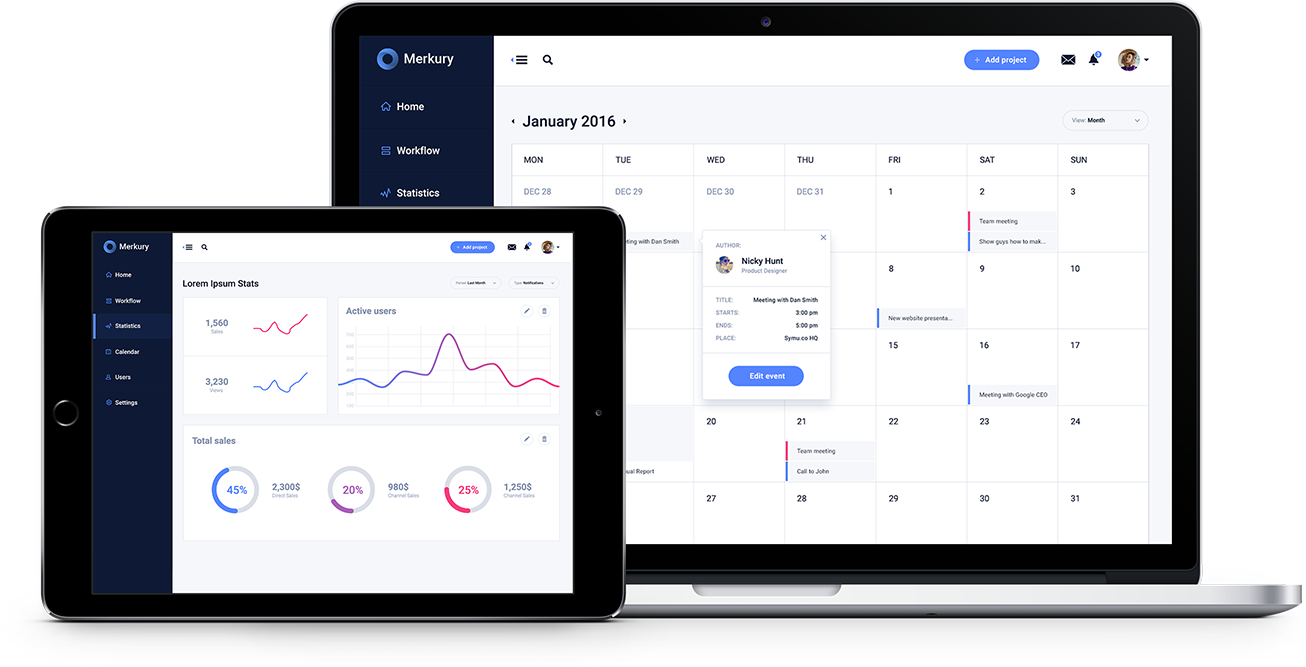
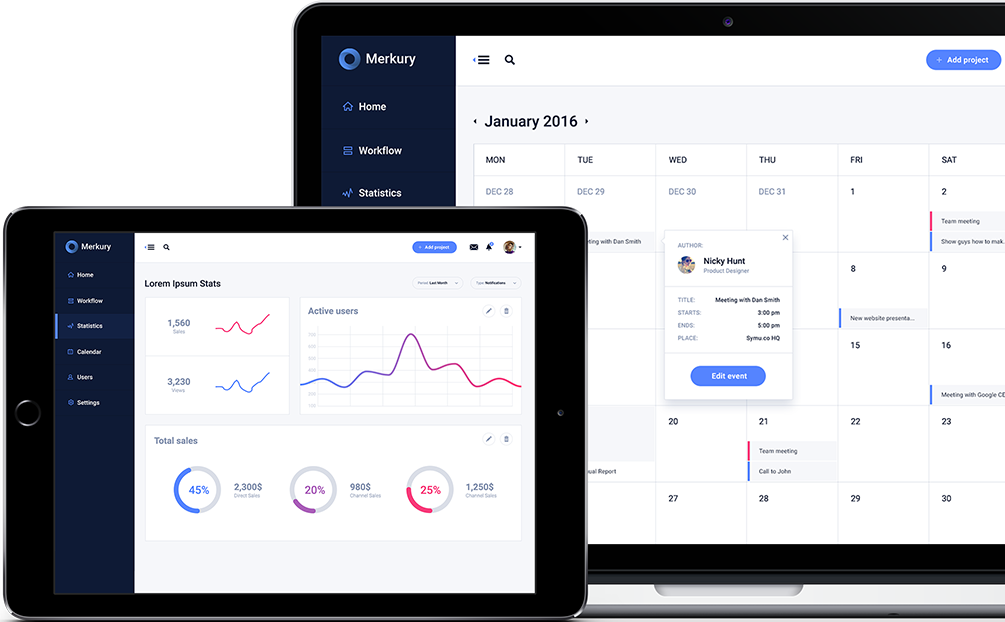
внес исправления в секцию browser

diff --git a/scss/browser.scss b/scss/browser.scss
@@ -1,30 +1,24 @@
 .browser {
-    padding-top: 50px;
-    padding-bottom: 300px;
+    padding: 50px 0 300px;
     background-image: url(../img/tablets.png);
-    background-size: 400px;
+    background-size: 350px;
     background-repeat: no-repeat;
-    background-position: 200% 90%; 
+    background-position: right 90%; 
 
     @media screen and (min-width: 768px) {
-        padding-top: 70px;
-        padding-bottom: 400px;
-        background-size: 550px;
-        background-position: 155% 90%;    
+        padding: 70px 0 400px;
+        background-size: 450px;   
     } 
 
     @media screen and (min-width: 992px) {
-        padding-top: 50px;
-        padding-bottom: 100px;
-        background-size: 800px;
-        background-position: 270% 60%;    
+        padding: 100px 0 100px;
+        background-size: 500px;
+        background-position: right 60%;    
     }
 
     @media screen and (min-width: 1400px) {
-        padding-top: 200px;
-        padding-bottom: 170px;
-        background-size: 1100px;
-        background-position: 180% 60%;    
+        padding: 200px 0 170px;
+        background-size: 750px;  
     }   
 } 
 
@@ -42,7 +36,7 @@
         }
 
         @media screen and (min-width: 992px) {
-            font-size: 50px;
+            font-size: 45px;
             margin-bottom: 35px;
         }
 
@@ -64,7 +58,7 @@
         }
 
         @media screen and (min-width: 992px) {
-            padding-right: 430px;
+            padding-right: 480px;
         }
 
         @media screen and (min-width: 1400px) {
@@ -81,7 +75,6 @@
         margin: 0 0 15px;
 
         @media screen and (min-width: 992px) {
-            font-size: 18px;
             margin: 0 0 20px;
         }
 

diff --git a/css/style.css b/css/style.css
@@ -365,35 +365,29 @@ li {
 }
 
 .browser {
-  padding-top: 50px;
-  padding-bottom: 300px;
+  padding: 50px 0 300px;
   background-image: url(../img/tablets.png);
-  background-size: 400px;
+  background-size: 350px;
   background-repeat: no-repeat;
-  background-position: 200% 90%;
+  background-position: right 90%;
 }
 @media screen and (min-width: 768px) {
   .browser {
-    padding-top: 70px;
-    padding-bottom: 400px;
-    background-size: 550px;
-    background-position: 155% 90%;
+    padding: 70px 0 400px;
+    background-size: 450px;
   }
 }
 @media screen and (min-width: 992px) {
   .browser {
-    padding-top: 50px;
-    padding-bottom: 100px;
-    background-size: 800px;
-    background-position: 270% 60%;
+    padding: 100px 0 100px;
+    background-size: 500px;
+    background-position: right 60%;
   }
 }
 @media screen and (min-width: 1400px) {
   .browser {
-    padding-top: 200px;
-    padding-bottom: 170px;
-    background-size: 1100px;
-    background-position: 180% 60%;
+    padding: 200px 0 170px;
+    background-size: 750px;
   }
 }
 
@@ -412,7 +406,7 @@ li {
 }
 @media screen and (min-width: 992px) {
   .browser_list h2 {
-    font-size: 50px;
+    font-size: 45px;
     margin-bottom: 35px;
   }
 }
@@ -436,7 +430,7 @@ li {
 }
 @media screen and (min-width: 992px) {
   .browser_list p {
-    padding-right: 430px;
+    padding-right: 480px;
   }
 }
 @media screen and (min-width: 1400px) {
@@ -453,7 +447,6 @@ li {
 }
 @media screen and (min-width: 992px) {
   .items li {
-    font-size: 18px;
     margin: 0 0 20px;
   }
 }
